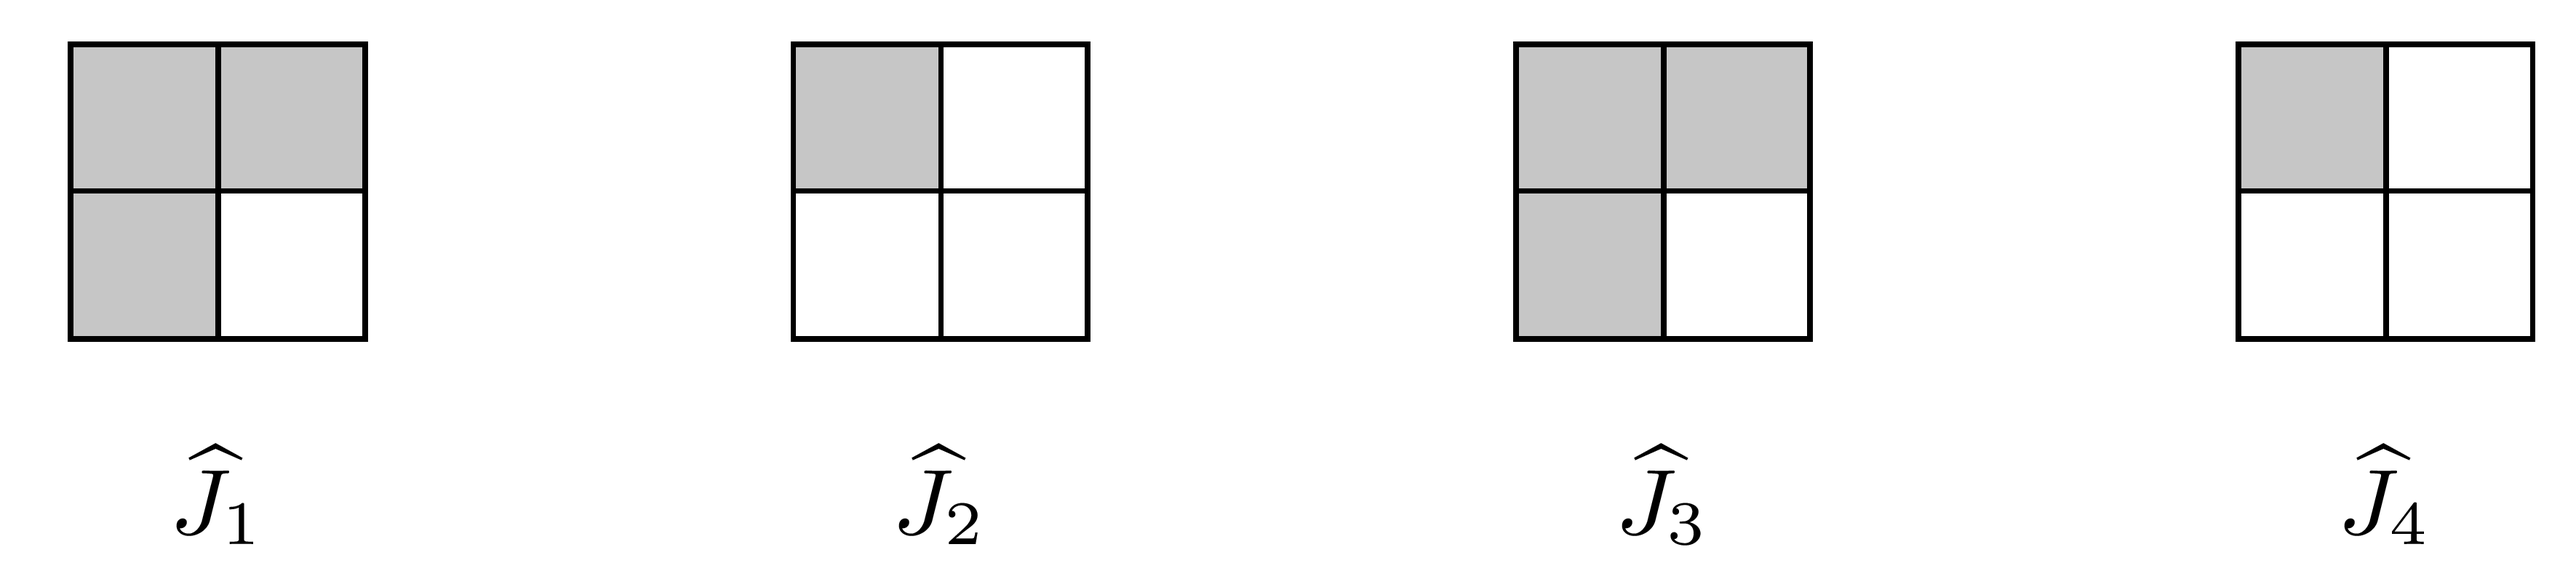
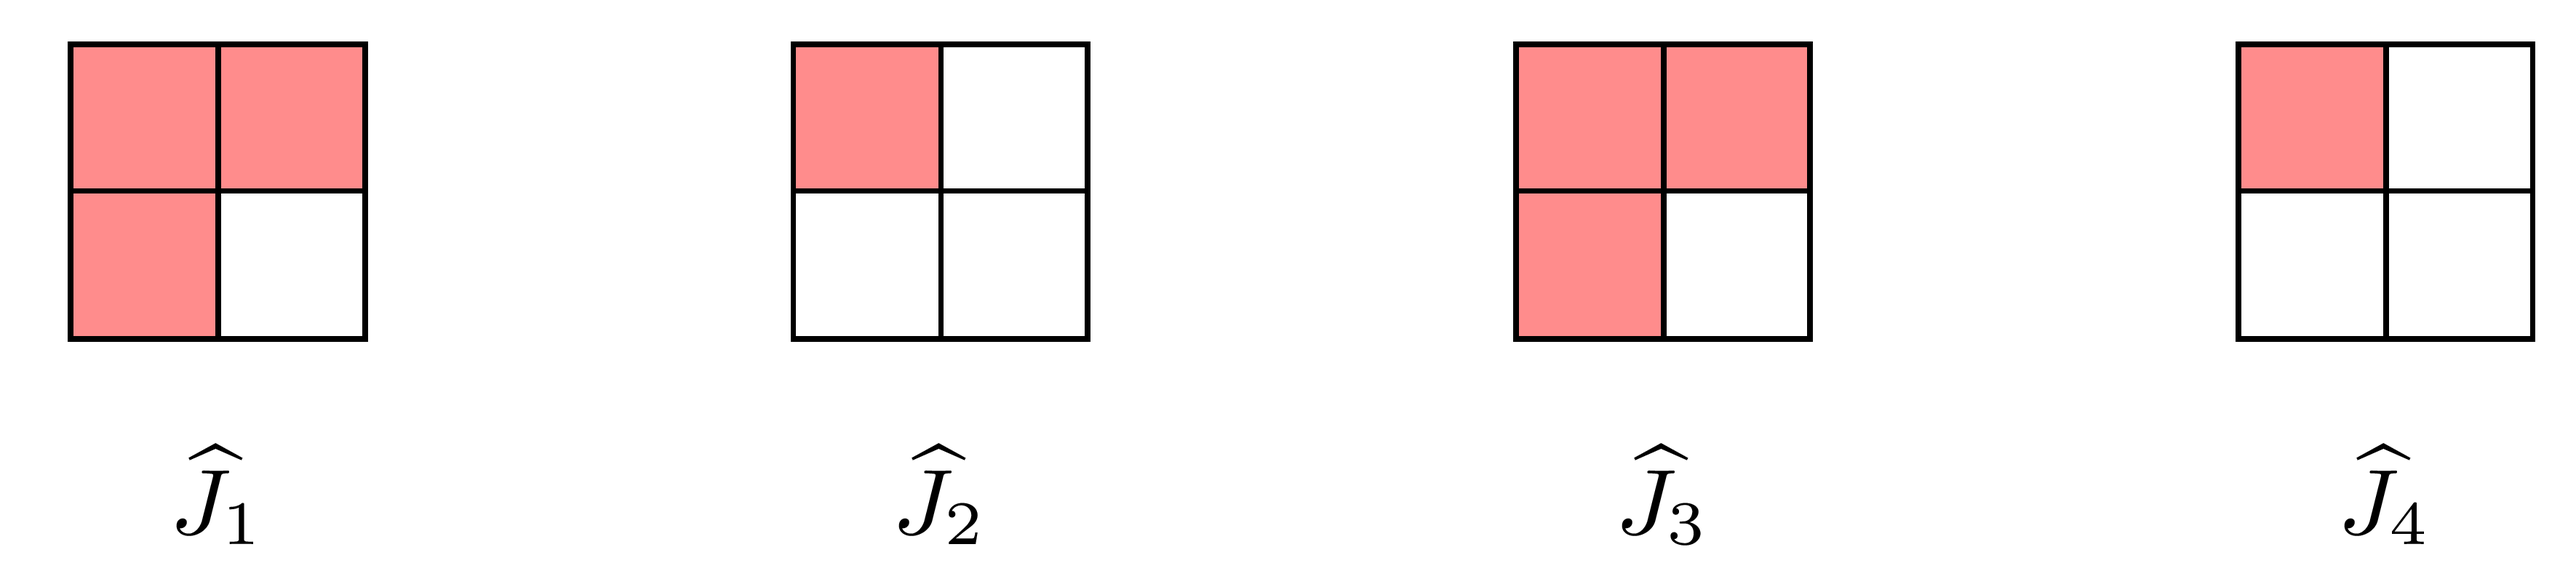
Auto: 260615 22:00
- Mirror_Symmetry: changed Young diagram frozen cell color from gray to red in TikZ source and regenerated all 5 PNG outputs

diff --git a/assets/diagrams/Math/Mirror_Symmetry/Mirror_Symmetry.tex b/assets/diagrams/Math/Mirror_Symmetry/Mirror_Symmetry.tex
@@ -21,13 +21,13 @@
 %% 생성된 png를 assets/images/Math/Mirror_Symmetry/{글제목}-n.png 로 이동.
 %% ====================================================================
 
-%% [MR superpotential 명제6·예시5] rectangles cluster 직사각형 그림 5종 (ytableau, frozen=gray!45). 각각 따로 standalone 컴파일. 번호는 본문 등장 순서.
+%% [MR superpotential 명제6·예시5] rectangles cluster 직사각형 그림 5종 (ytableau, fill=red!45). 각각 따로 standalone 컴파일. 번호는 본문 등장 순서.
 %% fig (-1): 예시5, Gr(2,4) cyclic interval J_i들의 Young diagram, J1..J4 (Marsh_Rietsch_Superpotential-1.png)
 \ytableausetup{boxsize=1.5em, centertableaux}
 \begin{tikzpicture}[font=\small]
-\node (a) {\begin{ytableau} *(gray!45)&{} \\ *(gray!45)&{} \end{ytableau}};
-\node (b) [right=1.2cm of a] {\begin{ytableau} *(gray!45)&*(gray!45) \\ *(gray!45)&*(gray!45) \end{ytableau}};
-\node (c) [right=1.2cm of b] {\begin{ytableau} *(gray!45)&*(gray!45) \\ {}&{} \end{ytableau}};
+\node (a) {\begin{ytableau} *(red!45)&{} \\ *(red!45)&{} \end{ytableau}};
+\node (b) [right=1.2cm of a] {\begin{ytableau} *(red!45)&*(red!45) \\ *(red!45)&*(red!45) \end{ytableau}};
+\node (c) [right=1.2cm of b] {\begin{ytableau} *(red!45)&*(red!45) \\ {}&{} \end{ytableau}};
 \node (d) [right=1.2cm of c] {\begin{ytableau} {}&{} \\ {}&{} \end{ytableau}};
 \node[below=3pt of a] {$J_1$};
 \node[below=3pt of b] {$J_2$};
@@ -36,10 +36,10 @@
 \end{tikzpicture}
 %% fig (-2): 예시5, Gr(2,4) Jhat_i들의 Young diagram, J1..J4hat (Marsh_Rietsch_Superpotential-2.png)
 \begin{tikzpicture}[font=\small]
-\node (a) {\begin{ytableau} *(gray!45)&*(gray!45) \\ *(gray!45)&{} \end{ytableau}};
-\node (b) [right=1.2cm of a] {\begin{ytableau} *(gray!45)&{} \\ {}&{} \end{ytableau}};
-\node (c) [right=1.2cm of b] {\begin{ytableau} *(gray!45)&*(gray!45) \\ *(gray!45)&{} \end{ytableau}};
-\node (d) [right=1.2cm of c] {\begin{ytableau} *(gray!45)&{} \\ {}&{} \end{ytableau}};
+\node (a) {\begin{ytableau} *(red!45)&*(red!45) \\ *(red!45)&{} \end{ytableau}};
+\node (b) [right=1.2cm of a] {\begin{ytableau} *(red!45)&{} \\ {}&{} \end{ytableau}};
+\node (c) [right=1.2cm of b] {\begin{ytableau} *(red!45)&*(red!45) \\ *(red!45)&{} \end{ytableau}};
+\node (d) [right=1.2cm of c] {\begin{ytableau} *(red!45)&{} \\ {}&{} \end{ytableau}};
 \node[below=3pt of a] {$\widehat{J}_1$};
 \node[below=3pt of b] {$\widehat{J}_2$};
 \node[below=3pt of c] {$\widehat{J}_3$};
@@ -48,10 +48,10 @@
 %% fig (-3): 증명, Gr(3,7) 3x4 box, 직사각형->Plücker 예시 (Marsh_Rietsch_Superpotential-3.png)
 \ytableausetup{boxsize=1.3em, centertableaux}
 \begin{tikzpicture}[font=\small]
-\node (a) {\begin{ytableau} *(gray!45)&*(gray!45)&{}&{} \\ *(gray!45)&*(gray!45)&{}&{} \\ {}&{}&{}&{} \end{ytableau}};
-\node (b) [right=1.4cm of a] {\begin{ytableau} *(gray!45)&{}&{}&{} \\ *(gray!45)&{}&{}&{} \\ {}&{}&{}&{} \end{ytableau}};
-\node (c) [right=1.4cm of b] {\begin{ytableau} *(gray!45)&*(gray!45)&{}&{} \\ {}&{}&{}&{} \\ {}&{}&{}&{} \end{ytableau}};
-\node (d) [right=1.4cm of c] {\begin{ytableau} *(gray!45)&{}&{}&{} \\ {}&{}&{}&{} \\ {}&{}&{}&{} \end{ytableau}};
+\node (a) {\begin{ytableau} *(red!45)&*(red!45)&{}&{} \\ *(red!45)&*(red!45)&{}&{} \\ {}&{}&{}&{} \end{ytableau}};
+\node (b) [right=1.4cm of a] {\begin{ytableau} *(red!45)&{}&{}&{} \\ *(red!45)&{}&{}&{} \\ {}&{}&{}&{} \end{ytableau}};
+\node (c) [right=1.4cm of b] {\begin{ytableau} *(red!45)&*(red!45)&{}&{} \\ {}&{}&{}&{} \\ {}&{}&{}&{} \end{ytableau}};
+\node (d) [right=1.4cm of c] {\begin{ytableau} *(red!45)&{}&{}&{} \\ {}&{}&{}&{} \\ {}&{}&{}&{} \end{ytableau}};
 \node[below=3pt of a] {$p_{2\times2}$};
 \node[below=3pt of b] {$p_{2\times1}$};
 \node[below=3pt of c] {$p_{1\times2}$};
@@ -59,10 +59,10 @@
 \end{tikzpicture}
 %% fig (-4): 증명, Gr(3,7) frozen = 한 변을 가득 채우는 직사각형 (Marsh_Rietsch_Superpotential-4.png)
 \begin{tikzpicture}[font=\small]
-\node (a) {\begin{ytableau} *(gray!45)&*(gray!45)&*(gray!45)&*(gray!45) \\ {}&{}&{}&{} \\ {}&{}&{}&{} \end{ytableau}};
-\node (b) [right=1.4cm of a] {\begin{ytableau} *(gray!45)&*(gray!45)&*(gray!45)&*(gray!45) \\ *(gray!45)&*(gray!45)&*(gray!45)&*(gray!45) \\ {}&{}&{}&{} \end{ytableau}};
-\node (c) [right=1.4cm of b] {\begin{ytableau} *(gray!45)&{}&{}&{} \\ *(gray!45)&{}&{}&{} \\ *(gray!45)&{}&{}&{} \end{ytableau}};
-\node (d) [right=1.4cm of c] {\begin{ytableau} *(gray!45)&*(gray!45)&{}&{} \\ *(gray!45)&*(gray!45)&{}&{} \\ *(gray!45)&*(gray!45)&{}&{} \end{ytableau}};
+\node (a) {\begin{ytableau} *(red!45)&*(red!45)&*(red!45)&*(red!45) \\ {}&{}&{}&{} \\ {}&{}&{}&{} \end{ytableau}};
+\node (b) [right=1.4cm of a] {\begin{ytableau} *(red!45)&*(red!45)&*(red!45)&*(red!45) \\ *(red!45)&*(red!45)&*(red!45)&*(red!45) \\ {}&{}&{}&{} \end{ytableau}};
+\node (c) [right=1.4cm of b] {\begin{ytableau} *(red!45)&{}&{}&{} \\ *(red!45)&{}&{}&{} \\ *(red!45)&{}&{}&{} \end{ytableau}};
+\node (d) [right=1.4cm of c] {\begin{ytableau} *(red!45)&*(red!45)&{}&{} \\ *(red!45)&*(red!45)&{}&{} \\ *(red!45)&*(red!45)&{}&{} \end{ytableau}};
 \node[below=3pt of a] {$p_{1\times4}$};
 \node[below=3pt of b] {$p_{2\times4}$};
 \node[below=3pt of c] {$p_{3\times1}$};
@@ -70,7 +70,7 @@
 \end{tikzpicture}
 %% fig (-5): 증명, Gr(3,7) cyclic interval에 대응하는 직사각형 lambda(i) (Marsh_Rietsch_Superpotential-5.png)
 \begin{tikzpicture}[font=\small]
-\node (a) {\begin{ytableau} *(gray!45)&*(gray!45)&{}&{} \\ *(gray!45)&*(gray!45)&{}&{} \\ *(gray!45)&*(gray!45)&{}&{} \end{ytableau}};
+\node (a) {\begin{ytableau} *(red!45)&*(red!45)&{}&{} \\ *(red!45)&*(red!45)&{}&{} \\ *(red!45)&*(red!45)&{}&{} \end{ytableau}};
 \node[below=3pt of a] {$\lambda(i)$};
 \end{tikzpicture}
 
